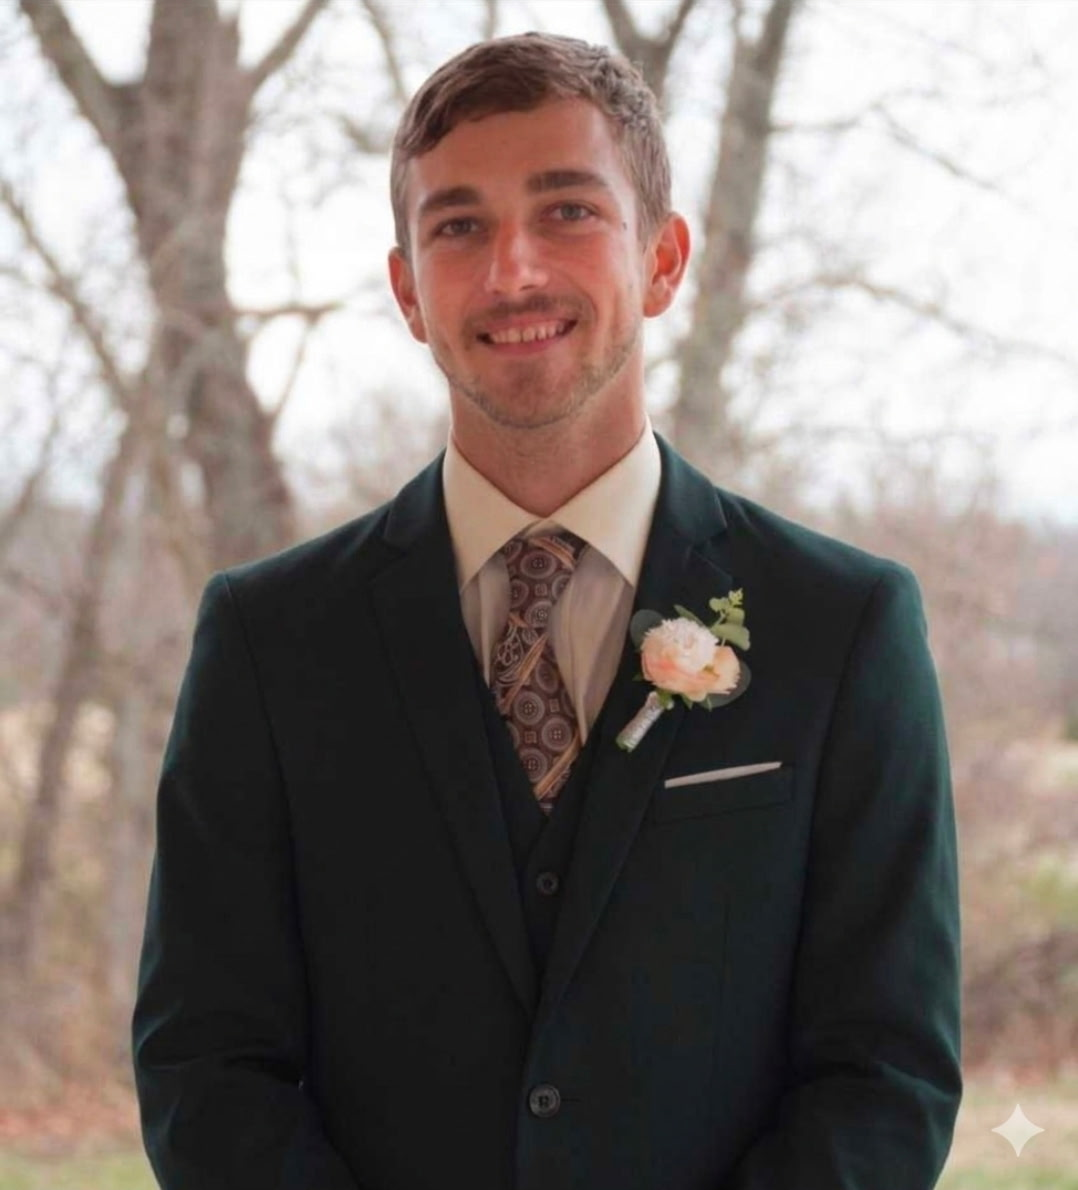
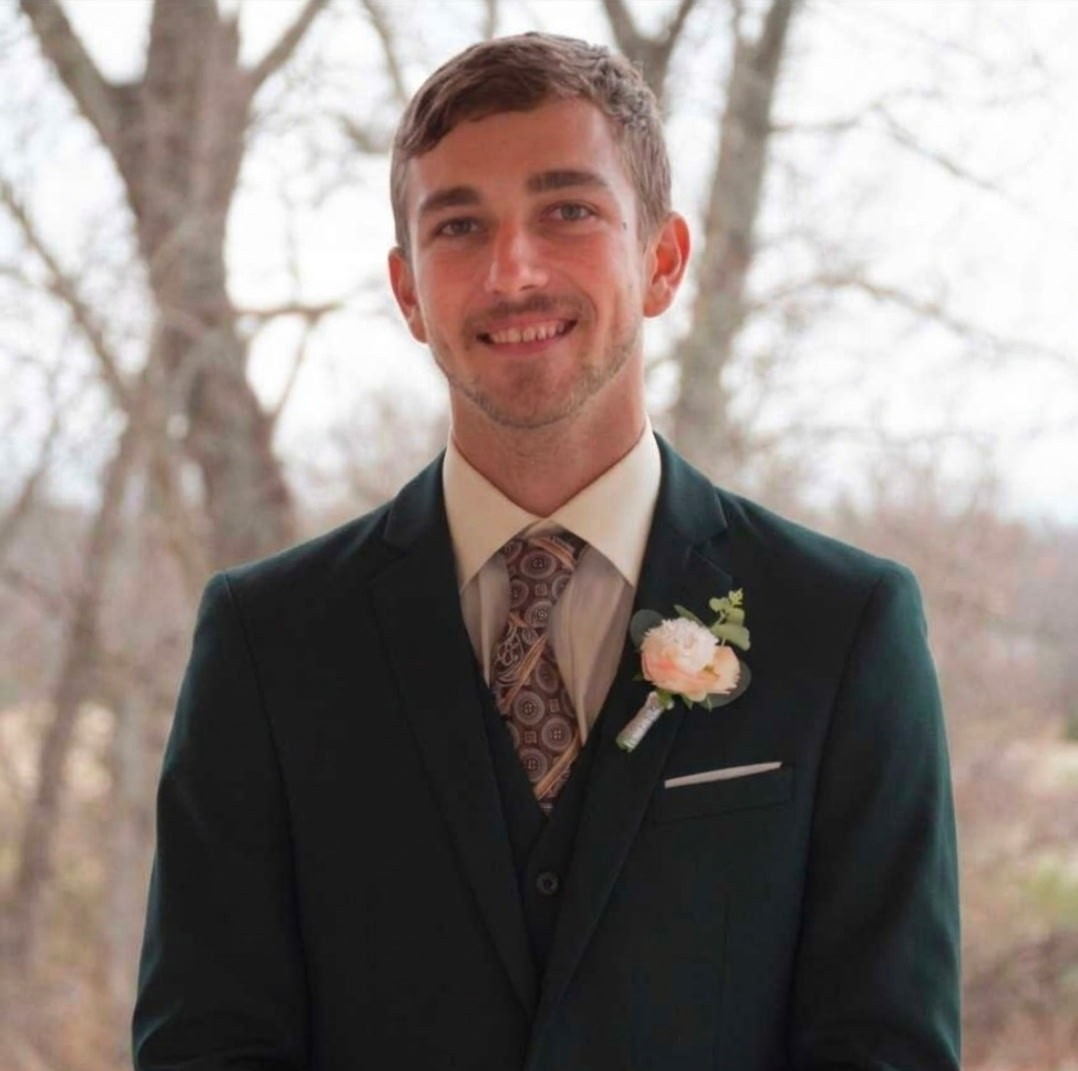
picture edit

diff --git a/style.css b/style.css
@@ -32,6 +32,11 @@ text-decoration:none;
 color:white;
 }
 
+profile-pic{
+width:150px;
+align-self:center;
+}
+
 .hero{
 text-align:center;
 padding:120px 20px;
